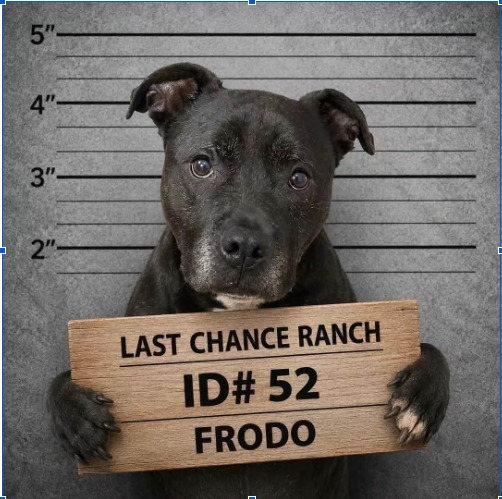
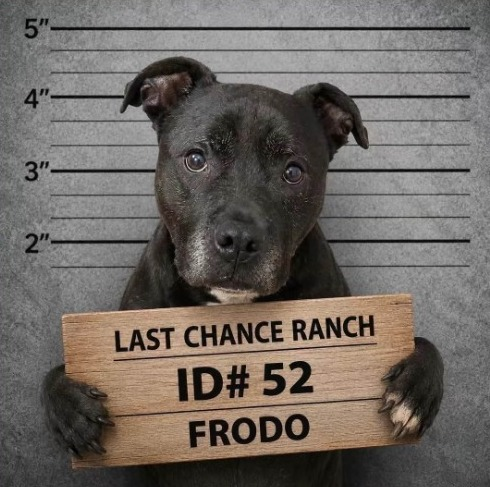
Frodo mugshot: trim edge artifacts

diff --git a/pf.html b/pf.html
@@ -1,0 +1,1 @@
+<html><head><title>Access Denied</title></head><body><h1>Access Denied</h1>You don't have permission to access "/member/us/sc/aiken/last-chance-ranch-of-south-carolina-sc10004/" on this server.<br/>0.8a813217.1787103949.9852862f</body></html>
